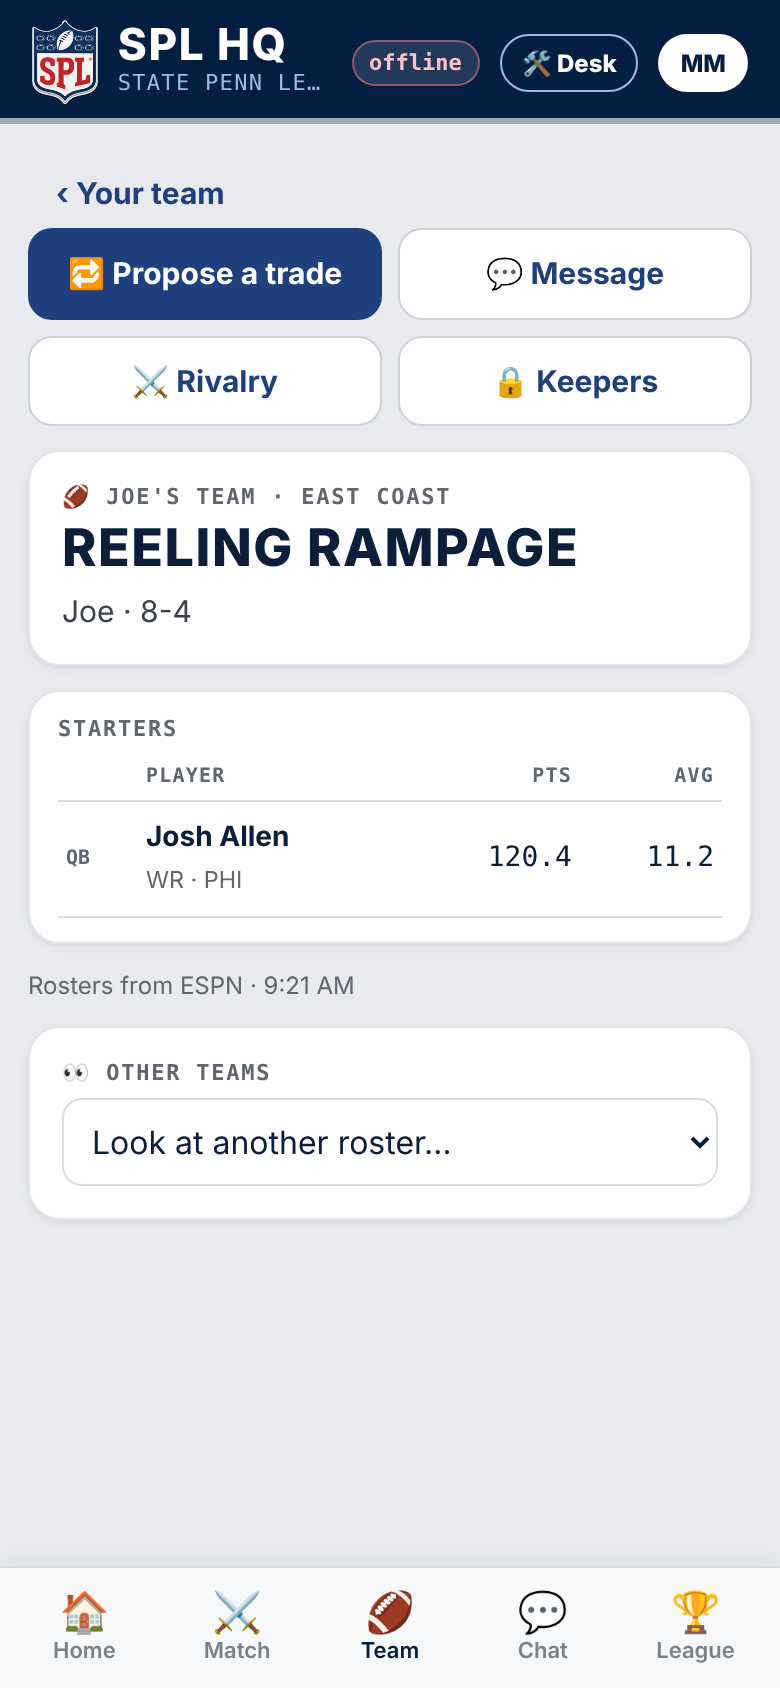
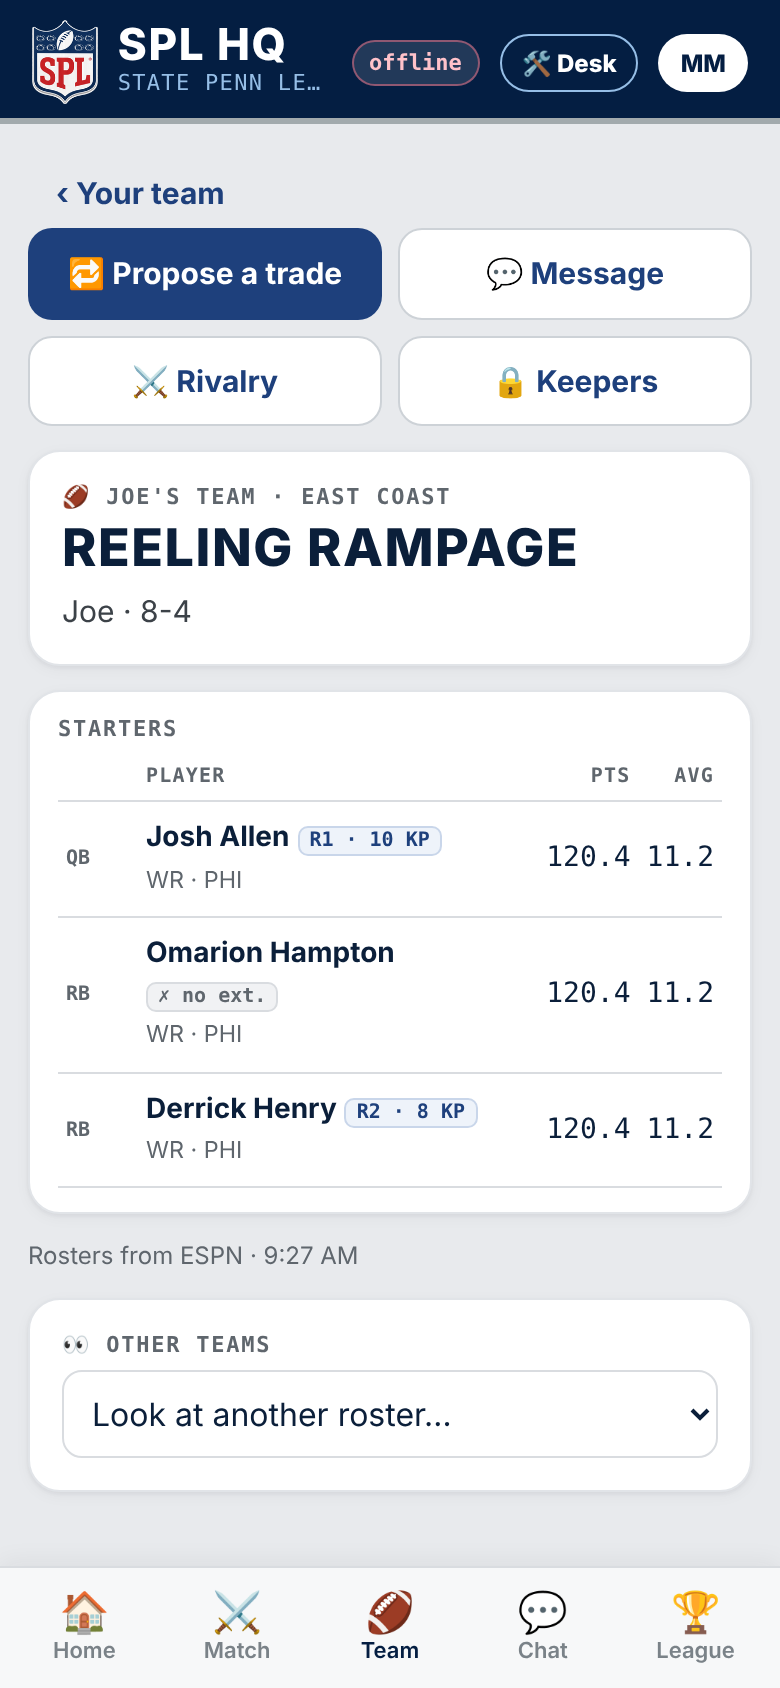
🏷 v0.17.4: keeper price (draft round KP) + contracts on trade grid, trade builder and Team roster
Claude-Session: https://claude.ai/code/session_015P3LFPu7UnHs8GhGjU4BR4

diff --git a/index.html b/index.html
@@ -303,7 +303,7 @@ mark{background:#FFE9A8;color:inherit;border-radius:3px}
 .gtrade{display:inline-block;margin-top:5px;background:#96BEE6;color:#041E42;border-radius:5px;padding:2px 7px;font:800 11px var(--head);text-transform:uppercase;letter-spacing:.06em}
 .gpos{font:700 10px var(--mono);text-transform:uppercase;letter-spacing:.1em;color:var(--muted);margin-top:6px}
 .gp{display:block;width:100%;text-align:left;background:#fff;border:1px solid var(--line);border-radius:8px;padding:6px 8px}
-.gp b{display:block;font-size:12.5px;line-height:1.2;white-space:nowrap;overflow:hidden;text-overflow:ellipsis}.gp small{font-size:10.5px;color:var(--muted)}
+.kpb{display:inline-block;font:700 10px var(--mono);color:var(--lime);border:1px solid #C9D6EA;background:#EEF3FA;border-radius:5px;padding:1px 5px;margin:2px 0 1px;white-space:nowrap} .kpb.kc{color:#7A5A14;background:#F7EED9;border-color:#E3CD9A} .kpb.kx{color:var(--muted);background:#F1F2F4;border-color:var(--line)} .gp .kpb{display:table;margin:3px 0 2px} .gp b{display:block;font-size:12.5px;line-height:1.2;white-space:nowrap;overflow:hidden;text-overflow:ellipsis}.gp small{font-size:10.5px;color:var(--muted)}
 .gp.sel{cursor:pointer}.gp.sel.on{background:#1E407C;border-color:#1E407C;color:#fff}.gp.sel.on small{color:#cfe0f5}
 .gp.pk b{font:600 12px var(--mono)}
 .bfoot{flex:none;background:#fff;border-top:1px solid var(--line);padding:10px 14px;display:flex;flex-direction:column;gap:8px}
@@ -378,7 +378,7 @@ nav.tabs button{color:#7A8288} nav.tabs button.on{color:#041E42}
 "use strict";
 // ---- Config. API_URL = the Apps Script web app URL (Deploy → Web app). Public by design: it's not a secret.
 var API_URL = "https://script.google.com/macros/s/AKfycbyGjG8LNEpCBceV5DulbfyMGLk7_NnW_W8q_y0sq47-5LEbE9dOu9Rp3rSVK9YEmD_IRw/exec";
-var APP_VERSION = "0.17.3";
+var APP_VERSION = "0.17.4";
 
 // ---- Owners (from data/SPL_Owner_Registry.csv; names + teams only, no contact info ever).
 var OWNERS = [
@@ -813,7 +813,7 @@ SCREENS.team.after = function (arg) {
       return '<div class="card" style="padding:12px 14px"><div class="eyebrow">' + label + '</div><table class="ro"><tr><th></th><th>Player</th><th class="n">Pts</th><th class="n">Avg</th></tr>' +
         list.map(function (p) {
           var k = kept[p.n.toLowerCase()];
-          return '<tr><td class="muted" style="font:600 10px var(--mono);width:40px">' + esc(p.slot) + '</td><td><b>' + esc(p.n) + '</b>' + (k ? ' <span class="tag">🔒 ' + (k.kp["2026"] === "F" ? "TAG" : k.kp["2026"] + " KP") + '</span>' : '') +
+          return '<tr><td class="muted" style="font:600 10px var(--mono);width:40px">' + esc(p.slot) + '</td><td><b>' + esc(p.n) + '</b>' + (p.pos === "D/ST" ? '' : ' ' + kpBadge(p.n)) +
             '<br><small class="muted">' + esc(p.pos) + ' · ' + esc(p.tm) + (p.acq ? ' · ' + esc(p.acq) : '') + '</small>' + (p.inj ? ' <span class="inj">' + esc(p.inj) + '</span>' : '') + '</td>' +
             '<td class="n">' + fmtPts(p.sp) + '</td><td class="n">' + fmtPts(p.avg) + '</td></tr>';
         }).join("") + '</table></div>';
@@ -844,6 +844,14 @@ function loadRosters() {
 }
 function pickInfo(pid) { var m = /^(\d+)-R(\d+)-(\w+)$/.exec(pid) || []; return { season: m[1], round: +m[2], original: m[3] }; }
 function pickLabel(pid, holder) { var p = pickInfo(pid); return "'" + String(p.season).slice(2) + " Rd " + p.round + (p.original !== holder ? " (" + oname(p.original) + "'s)" : ""); }
+// Keeper price on any roster row: 🔒 the contract he carries (next season's KP, through when), else what keeping him would cost
+// (KP by the round he went in last season's SPL Draft; undrafted = 2), or ✗ if he can't be kept (no extensions, terminated).
+function kpBadge(name) {
+  var y0 = KP_YRS[0], c = contractOf(name);
+  if (c) { var v = c.kp[y0], last = Math.max.apply(null, Object.keys(c.kp).map(Number)); return '<span class="kpb kc">🔒 ' + (v === "F" ? "TAG" : v + " KP") + (last > y0 ? " → '" + String(last).slice(2) : "") + '</span>'; }
+  var why = kblocked(name, ""); if (why && !/under contract/.test(why)) return '<span class="kpb kx" title="' + esc(why) + '">✗ ' + (/terminated/.test(why) ? "cut" : "no ext.") + '</span>';
+  var r = draftedRound(name, y0 - 1); return '<span class="kpb">' + (r ? "R" + r : "UD") + ' · ' + KP_ROUND(r) + ' KP</span>';
+}
 function contractOf(name) { // the keeper contract that travels with this player, if any
   var c = ((window.LEAGUE_DATA || {}).contracts || []).filter(function (x) { return x.status === "active" && x.player.toLowerCase() === String(name).toLowerCase(); })[0];
   if (!c) return null; var fut = Object.keys(c.kp).filter(function (y) { return +y >= 2027; }); return fut.length ? c : null;
@@ -930,12 +938,12 @@ SCREENS.trade.after = function (arg) {
     Promise.all([loadRosters(), loadTrades()]).then(function (res) {
       var ro = res[0], t = res[1], st = sortTeams((HOME_D && HOME_D.stand && HOME_D.stand.teams) || []).map(function (x) { return x.owner; });
       var ids = [me].concat(OWNERS.map(function (o) { return o.id; }).filter(function (id) { return id !== me; }).sort(function (a, b) { var ia = st.indexOf(a), ib = st.indexOf(b); return (ia < 0 ? 99 : ia) - (ib < 0 ? 99 : ib); }));
-      var html = '<div class="gtop">' + back("trades", "Trades") + '<span class="muted" style="font-size:12px">Scroll across the league. Tap a team to trade. 🔒 = keeper contract.</span></div><div class="tgrid2">' + ids.map(function (id) {
+      var html = '<div class="gtop">' + back("trades", "Trades") + '<span class="muted" style="font-size:12px">Scroll across the league. Tap a team to trade. 🔒 = keeper contract (next season KP → final year) · R3 · 6 KP = keeper price by ' + (KP_YRS[0] - 1) + ' draft round (UD = undrafted).</span></div><div class="tgrid2">' + ids.map(function (id) {
         var tm = teamRoster(ro, id); if (!tm) return ""; var mine = id === me, np = t.picks.filter(function (p) { return p.owner === id; }).length;
         var head = mine ? '<div class="ghead me"><b>You</b><small>' + esc(tm.rec) + ' · 🎟 ' + np + ' picks</small></div>'
           : '<button class="ghead" onclick="go(\'trade\',\'' + id + '\')"><b>' + esc(tm.team) + '</b><small>' + esc(oname(id)) + ' · ' + esc(tm.rec) + ' · 🎟 ' + np + '</small><span class="gtrade">Trade ›</span></button>';
         return '<div class="gcol' + (mine ? " mine" : "") + '">' + head + grouped(tm.players.filter(function (p) { return p.slot !== "IR"; }), function (p) {
-          return '<div class="gp"><b>' + esc(p.n) + (contractOf(p.n) ? " 🔒" : "") + '</b><small>' + esc(p.tm) + (p.avg != null ? ' · ' + fmtPts(p.avg) + '/g' : '') + (p.inj ? ' · <span class="inj">' + esc(p.inj) + '</span>' : '') + '</small></div>'; }) + '</div>';
+          return '<div class="gp"><b>' + esc(p.n) + '</b>' + (p.pos === "D/ST" ? "" : kpBadge(p.n)) + '<small>' + esc(p.tm) + (p.avg != null ? ' · ' + fmtPts(p.avg) + '/g' : '') + (p.inj ? ' · <span class="inj">' + esc(p.inj) + '</span>' : '') + '</small></div>'; }) + '</div>';
       }).join("") + '</div>';
       if ($("#tg")) $("#tg").innerHTML = html;
     }).catch(function (e) { if ($("#tg")) $("#tg").innerHTML = '<p class="coral" style="padding:14px">' + esc(e.message) + '</p>'; });
@@ -953,7 +961,7 @@ SCREENS.trade.after = function (arg) {
     var col = function (s, team, owner) {
       return '<div class="bcol"><div class="ghead' + (s === "give" ? " me" : "") + '"><b>' + (s === "give" ? "You send" : esc(oname(owner)) + " sends") + '</b><small>' + esc(team.team) + '</small></div>' +
         grouped(team.players.filter(function (p) { return p.slot !== "IR"; }), function (p) { var on = !!TB[s].players[p.n];
-          return '<button class="gp sel' + (on ? " on" : "") + '" data-s="' + s + '" data-p="' + esc(p.n) + '" data-pos="' + esc(p.pos) + '" data-tm="' + esc(p.tm) + '" data-id="' + (p.id || "") + '"><b>' + esc(p.n) + (contractOf(p.n) ? " 🔒" : "") + '</b><small>' + esc(p.tm) + (p.avg != null ? ' · ' + fmtPts(p.avg) + '/g' : '') + '</small></button>'; }) +
+          return '<button class="gp sel' + (on ? " on" : "") + '" data-s="' + s + '" data-p="' + esc(p.n) + '" data-pos="' + esc(p.pos) + '" data-tm="' + esc(p.tm) + '" data-id="' + (p.id || "") + '"><b>' + esc(p.n) + '</b>' + (p.pos === "D/ST" ? "" : kpBadge(p.n)) + '<small>' + esc(p.tm) + (p.avg != null ? ' · ' + fmtPts(p.avg) + '/g' : '') + '</small></button>'; }) +
         '<div class="gpos">🎟 Picks</div>' + picksOf(owner).map(function (pk) { var on = !!TB[s].picks[pk.pid];
           return '<button class="gp sel pk' + (on ? " on" : "") + '" data-s="' + s + '" data-k="' + esc(pk.pid) + '"><b>' + esc(pickLabel(pk.pid, owner)) + '</b></button>'; }).join("") + '</div>';
     };

diff --git a/sw.js b/sw.js
@@ -1,6 +1,6 @@
 // SPL HQ service worker: cached copy first for the app's own files (refreshed in the background), network when there is no copy.
 // Never caches the backend (script.google.com): live data is always fetched fresh.
-var CACHE = "splhq-v34";
+var CACHE = "splhq-v35";
 self.addEventListener("install", function (e) { self.skipWaiting(); });
 // Drop every older splhq-v* cache (WS7: phones were keeping one full copy of the app per version, 27 and counting).
 self.addEventListener("activate", function (e) {

diff --git a/docs/STATUS.md b/docs/STATUS.md
@@ -1,6 +1,6 @@
 # SPL HQ — Status
 
-_Read first. Newest on top._ **Last updated:** 2026-11-26 by Claude (chat, Team tab overhaul v0.17.2–.3)
+_Read first. Newest on top._ **Last updated:** 2026-11-26 by Claude (chat, Team tab overhaul + keeper prices v0.17.2–.4)
 
 ## Now
 - **WS7 ops ready-check (v0.16, backend v0.12.0):** audit in `docs/OPS_AUDIT_2026-11-26.md`. Big find: **GitHub's schedule has never fired on this repo**, so the backend's new hourly watchdog now runs late robots itself. **Mike, three one-time steps (runbook):** ① Script property `GH_TOKEN` (fine-grained, this repo, Actions read+write, 1 yr) ② Apps Script ⏰ trigger on `tick`, hourly ③ UptimeRobot on `?action=health`. Then Ops desk → 🤖 Robots & watchdog should read ✅ all good. ESPN writes are ON (test league): off after the demo.
@@ -19,6 +19,10 @@ Settled by Mike (retired, answers kept on the Ops desk): keeper_travels, pick_ye
 One more question cleanup before the list goes to Joe.
 
 ## Recently shipped
+- 2026-11-26 · v0.17.4 · 🏷 **Keeper price on every roster row** (Mike: the trade grid must show where each player was drafted). New `kpBadge()` on the
+  trade grid, the trade builder and the Team roster: 🔒 gold = carries a contract (next season's KP → final year, TAG for a franchise year);
+  blue **R3 · 6 KP** = what keeping him costs, from his round in last season's SPL Draft (UD · 2 KP = undrafted); grey **✗ no ext.** / **✗ cut**
+  = can't be kept (contract ran out, terminated; same check as the Keepers page). D/ST skipped. SW `splhq-v35`.
 - 2026-11-26 · v0.17.3 · 🏈 Team page: **Keeper contracts card removed** (Mike: the 🔒 Keepers tile is where owners go for keeper info). Roster rows keep their small 🔒 KP tag. SW `splhq-v34`.
 - 2026-11-26 · v0.17.2 · 🏈 **Team tab overhaul** (Mike: drop the owner pill row, trading + keepers up top). Your team opens with two big tiles:
   🔁 **Trades** (gold "N need your answer" when an offer waits, else open offers / picks) and 🔒 **Keepers** (Signing Day: declare / ✅ declared,
